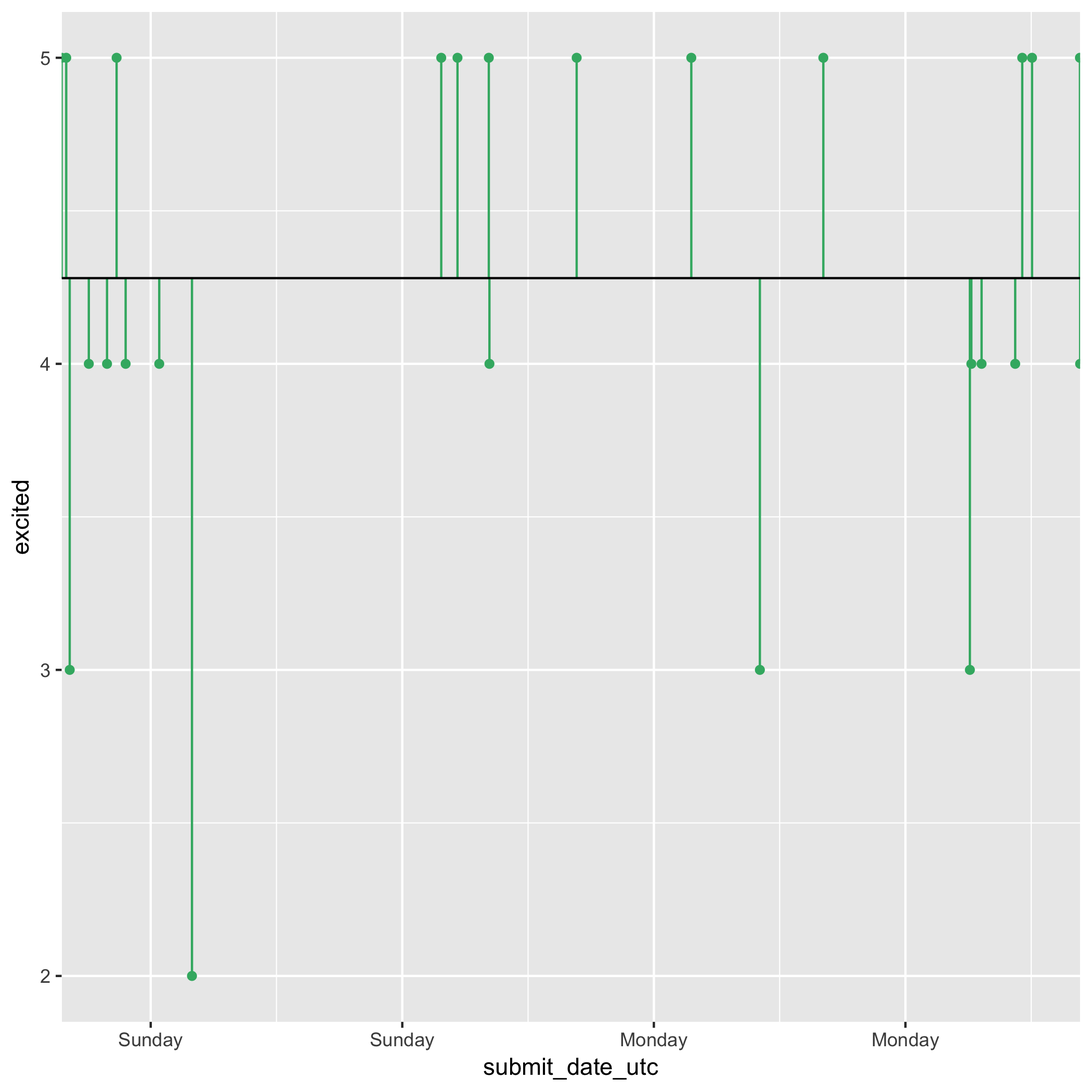
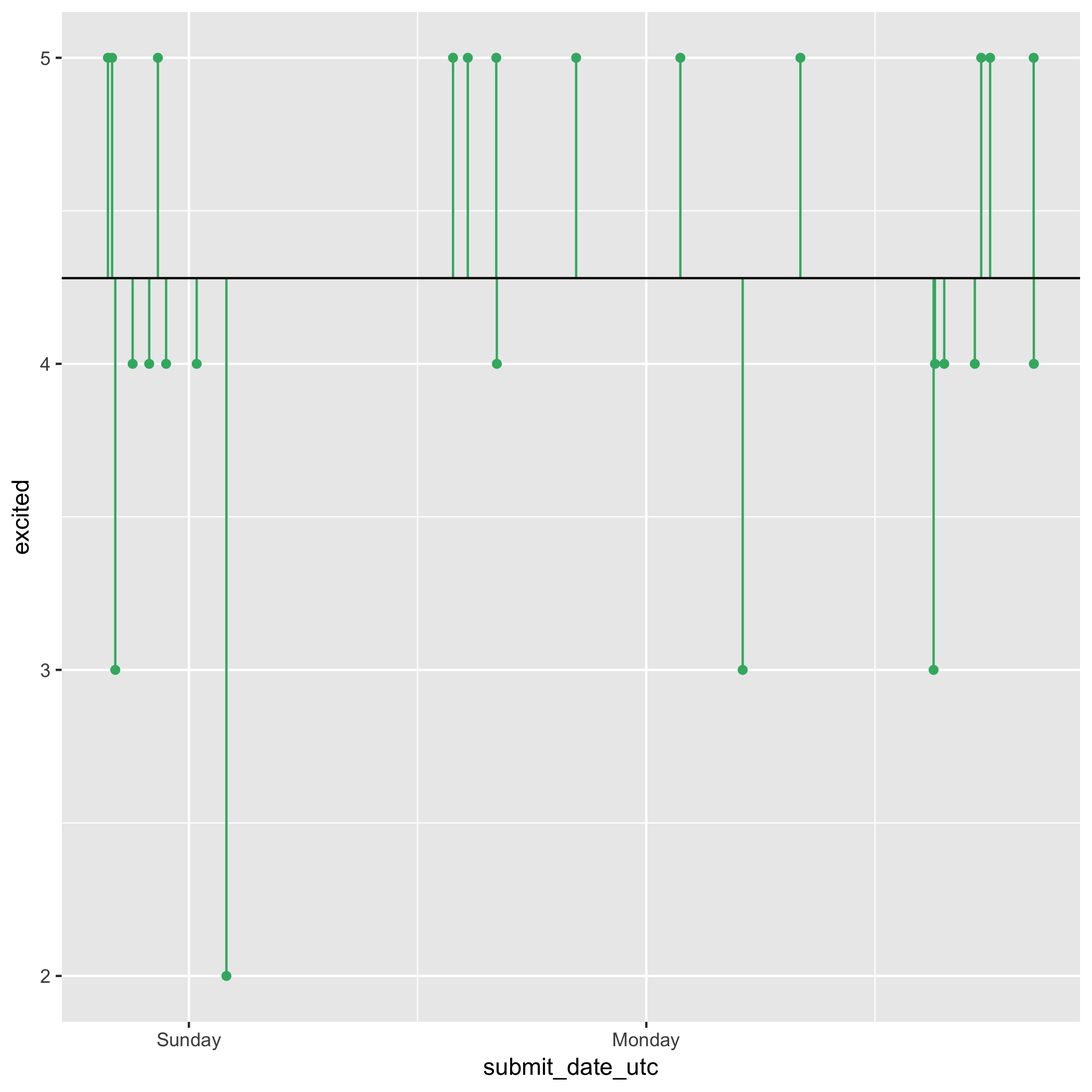
final final final cm011 slides

diff --git a/due.html b/due.html
@@ -263,8 +263,8 @@ $(document).ready(function () {
 <div id="datacamp" class="section level2">
 <h2>DataCamp</h2>
 <p>Be sure to check the <strong>DataCamp</strong> link above for more details on the DataCamp (DC) assignments. More details on the Problem Sets (PS) are available in the link above for Problem Sets.</p>
-<div id="htmlwidget-e3568b94a419a37038a0" style="width:100%;height:auto;" class="datatables html-widget"></div>
-<script type="application/json" data-for="htmlwidget-e3568b94a419a37038a0">{"x":{"filter":"top","filterHTML":"<tr>\n  <td data-type=\"character\" style=\"vertical-align: top;\">\n    <div class=\"form-group has-feedback\" style=\"margin-bottom: auto;\">\n      <input type=\"search\" placeholder=\"All\" class=\"form-control\" style=\"width: 100%;\"/>\n      <span class=\"glyphicon glyphicon-remove-circle form-control-feedback\"><\/span>\n    <\/div>\n  <\/td>\n  <td data-type=\"character\" style=\"vertical-align: top;\">\n    <div class=\"form-group has-feedback\" style=\"margin-bottom: auto;\">\n      <input type=\"search\" placeholder=\"All\" class=\"form-control\" style=\"width: 100%;\"/>\n      <span class=\"glyphicon glyphicon-remove-circle form-control-feedback\"><\/span>\n    <\/div>\n  <\/td>\n  <td data-type=\"character\" style=\"vertical-align: top;\">\n    <div class=\"form-group has-feedback\" style=\"margin-bottom: auto;\">\n      <input type=\"search\" placeholder=\"All\" class=\"form-control\" style=\"width: 100%;\"/>\n      <span class=\"glyphicon glyphicon-remove-circle form-control-feedback\"><\/span>\n    <\/div>\n  <\/td>\n  <td data-type=\"character\" style=\"vertical-align: top;\">\n    <div class=\"form-group has-feedback\" style=\"margin-bottom: auto;\">\n      <input type=\"search\" placeholder=\"All\" class=\"form-control\" style=\"width: 100%;\"/>\n      <span class=\"glyphicon glyphicon-remove-circle form-control-feedback\"><\/span>\n    <\/div>\n  <\/td>\n  <td data-type=\"character\" style=\"vertical-align: top;\">\n    <div class=\"form-group has-feedback\" style=\"margin-bottom: auto;\">\n      <input type=\"search\" placeholder=\"All\" class=\"form-control\" style=\"width: 100%;\"/>\n      <span class=\"glyphicon glyphicon-remove-circle form-control-feedback\"><\/span>\n    <\/div>\n  <\/td>\n  <td data-type=\"character\" style=\"vertical-align: top;\">\n    <div class=\"form-group has-feedback\" style=\"margin-bottom: auto;\">\n      <input type=\"search\" placeholder=\"All\" class=\"form-control\" style=\"width: 100%;\"/>\n      <span class=\"glyphicon glyphicon-remove-circle form-control-feedback\"><\/span>\n    <\/div>\n  <\/td>\n<\/tr>","data":[["Tues","Thurs","Tues","Thurs","Tues","Thurs","Tues","Thurs","Tues","Thurs","Tues","Thurs","Tues","Thurs","Tues","Thurs","Tues","Thurs","Tues","Thurs","Tues","Thurs","Tues","Thurs"],["June 26","June 28","July 3","July 5","July 10","July 12","July 17","July 19","July 24","July 26","July 31","August 2","August 7","August 9","August 14","August 16","August 21","August 23","August 28","August 30","September 4","September 6","September 11","September 13"],["1: Working with data in R","1.2","1.3","1.4","1.5","1.6","2: Linear models","2.2","2.3","2.4","2.5","2.6","3: Inference","3.2","3.3","3.4","3.5","3.6","4: Mixed models","4.2","4.3","5.1: Wrap-up","5.2: Final presentations","5.3: Final presentations"],[null,"<a href='http://moderndive.netlify.com/index.html#sec:intro-for-students'>- MD Ch 1.1: Introduction<\/a><br><a href='http://moderndive.netlify.com/2-getting-started.html'>- MD Ch 2: Getting Started<\/a>","<a href='http://moderndive.netlify.com/3-viz.html'>- MD Ch 3: Data Visualization<\/a><br><a href='http://r4ds.had.co.nz/workflow-basics.html'>- R4DS Ch 4: Workflow Basics<\/a><br><a href='http://journals.plos.org/plosbiology/article?id=10.1371/journal.pbio.1002128'>- Weissberger: Bar Plots<\/a>","<a href='http://moderndive.netlify.com/4-tidy.html'>- MD Ch 4: Tidy Data<\/a><br><a href='http://r4ds.had.co.nz/workflow-scripts.html'>- R4DS Ch 6: Workflow Scripts<\/a>","<a href='http://moderndive.netlify.com/5-wrangling.html'>- MD Ch 5: Data Wrangling<\/a><br><a href='http://r4ds.had.co.nz/exploratory-data-analysis.html'>- R4DS Ch 7: Exploratory Data Analysis<\/a><br><a href='http://r4ds.had.co.nz/workflow-projects.html'>- R4DS Ch 8: Workflow Projects<\/a>","<br><a href='http://r4ds.had.co.nz/data-import.html'>- R4DS Ch 11: Data Import<\/a><br><a href='http://r4ds.had.co.nz/relational-data.html'>- R4DS Ch 13: Relational Data<\/a><br><a href='https://peerj.com/preprints/3139/'>- PEERJ: Data for Collaboration<\/a><br><a href='https://peerj.com/preprints/3183/'>- PEERJ: Spreadsheets<\/a>","<a href='http://moderndive.netlify.com/6-regression.html'>- MD Ch 6: Basic Regression<\/a><br><a href = 'https://www.nature.com/articles/nmeth.3627'>- Nature POS: SLR<\/a>","<a href='http://moderndive.netlify.com/7-multiple-regression.html'>- MD Ch: Multiple Regression<\/a><br><a href = 'https://www.nature.com/articles/nmeth.3665'>- Nature POS: MLR<\/a>","<a href='https://www.nature.com/articles/nmeth.2613'>- Nature POS: Uncertainty<\/a><br><a href='https://www.nature.com/articles/nmeth.2659'>- Nature POS: Error bars<\/a><br><a href='https://statsbylopez.com/2015/08/31/regression-or-reversion/'>- Blog: Regression to the mean<\/a><br><a href='https://www.youtube.com/watch?time_continue=1&v=ebEkn-BiW5k'>- YouTube: Simpson's Paradox, Part 1<\/a><br><a href='https://www.youtube.com/watch?v=E_ME4P9fQbo'>- YouTube: Simpson's Paradox, Part 2<\/a>","<a href='https://www.markdowntutorial.com'>- Markdown Tutorial<\/a><br><a href='http://r4ds.had.co.nz/r-markdown.html'>- R4DS Ch 27: R Markdown<\/a><br><a href='http://r4ds.had.co.nz/factors.html'>- R4DS Ch 15: Factors<\/a>","<a href = 'https://www.nature.com/articles/nmeth.3812'>- Nature POS: Outliers<\/a><br><a href = 'https://www.nature.com/articles/nmeth.3854'>- Nature POS: Diagnostics<\/a>",null,"<a href='http://moderndive.netlify.com/8-sampling.html'>- MD Ch 8: Sampling<\/a>","<a href='http://moderndive.netlify.com/9-confidence-intervals'>- MD  Ch 9: Confidence Intervals<\/a><br><a href='https://www.nature.com/articles/nmeth.3414\">- Nature POS: Bootstrapping<\/a>","<a href='http://moderndive.netlify.com/10-hypothesis-testing.html'>- MD Ch 10: Hypothesis Testing <\/a><br><a href='http://moderndive.netlify.com/b-appendixb'>- MD Appendix B: Inference Examples<\/a>","<a href='https://www.nature.com/articles/nmeth.2698'>- Nature POS: t-tests<\/a><br><a href='https://www.nature.com/articles/nmeth.2858'>- Nature POS: comparing samples<\/a>","<a href='https://www.nature.com/news/scientific-method-statistical-errors-1.14700'>- Nature: p-values<\/a><br><a href = 'https://fivethirtyeight.com/features/science-isnt-broken/#part1'>- 538: Science Isn't Broken<\/a><br><a href='https://simplystatistics.org/2012/01/06/p-values-and-hypothesis-testing-get-a-bad-rap-but-we/'>- Simply Statistics blog<\/a><br><a href='http://daniellakens.blogspot.com/2017/12/understanding-common-misconceptions.html'>- Lakens blog<\/a>","<a href='https://www.nature.com/articles/nmeth.3005'>- Nature POS: ANOVA<\/a><br><a href='https://www.nature.com/articles/nmeth.2900'>- Nature POS: multiple comparisons<\/a><br><a href = 'https://arxiv.org/pdf/1412.3416.pdf'>- ANOVA<\/a>","<a href='http://thestudyofthehousehold.com/2018/02/28/2018-02-28-formulae-are-a-lot-like-french-slang/'>- Mixed Modeling as a Foreign Language<\/a>","<a href='https://peerj.com/articles/4794/'>- PEERJ article<\/a>","<a href='https://m-clark.github.io/mixed-models-with-R/'>- Mixed Models in R<\/a>","<a href='http://biostat.mc.vanderbilt.edu/wiki/Main/ManuscriptChecklist'>- Frank Harrell's Manuscript Checklist<\/a>",null,null],["<a href='http://bit.ly/conj620-hi'>Warm-up survey<\/a>","<a href='https://www.datacamp.com/courses/introduction-to-the-tidyverse'>DC1: Intro to the Tidyverse (Ch 1 + 2)<\/a>","<a href='https://www.datacamp.com/courses/introduction-to-the-tidyverse'>DC1: Intro to the Tidyverse (Ch 3 + 4)<\/a>","DC2: Working with Data in the Tidyverse (Ch 1 + 2)","DC2: Working with Data in the Tidyverse (Ch 3 + 4)","<a href='https://www.datacamp.com/courses/introduction-to-data'>DC3: Introduction to Data (Ch 1-3)<\/a>","<a href='https://www.datacamp.com/courses/exploratory-data-analysis-in-r-case-study'>DC4: Exploratory Data Analysis Case Study (Ch 1 + 2)<\/a>","<a href='https://www.datacamp.com/courses/exploratory-data-analysis-in-r-case-study'>DC4: Exploratory Data Analysis Case Study (Ch 3 + 4)<\/a>","DC5: Intro to Modeling in the Tidyverse (Ch 1 + 2)","DC5: Intro to Modeling in the Tidyverse (Ch 3 + 4)",null,null,"<a href='https://www.datacamp.com/courses/inference-for-numerical-data'>DC6: Inference for Numerical Data (Ch 1 + 2)<\/a>","<a href='https://www.datacamp.com/courses/inference-for-numerical-data'>DC6: Inference for Numerical Data (Ch 3 + 4)<\/a>","DC7: Inference for Categorical Data (Ch 1 + 2)","DC7: Inference for Categorical Data (Ch 3 + 4)","<a href='https://www.datacamp.com/courses/inference-for-linear-regression'>DC8: Inference for Linear Regression (Ch 1 + 2)<\/a>","<a href='https://www.datacamp.com/courses/inference-for-linear-regression'>DC8: Inference for Linear Regression (Ch 3 - 5)<\/a>","<a href='https://www.datacamp.com/courses/hierarchical-and-mixed-effects-models'>DC9: Hierarchical & Mixed Effects Models (Ch 1 + 2)<\/a>","<a href='https://www.datacamp.com/courses/hierarchical-and-mixed-effects-models'>DC9: Hierarchical & Mixed Effects Models (Ch 3 + 4)<\/a>","<a href='https://www.datacamp.com/courses/communicating-with-data-in-the-tidyverse'>DC10: Communicating with Data in the Tidyverse<\/a>","<a href='https://www.datacamp.com/courses/communicating-with-data-in-the-tidyverse'>DC10: Communicating with Data in the Tidyverse<\/a>",null,null],["-","-","-","-","-","-","-","-","-","-","-","-","-","-","-","-","-","-","-","-","-","-","-","<a href='http://ismayc.github.io/soc301_s2017/problem-sets/index.html#ps11'>#VALUE!<\/a>"]],"container":"<table class=\"cell-border stripe\">\n  <thead>\n    <tr>\n      <th>Weekday<\/th>\n      <th>Date<\/th>\n      <th>CM / Block<\/th>\n      <th>Readings Due<\/th>\n      <th>DataCamp Due<\/th>\n      <th>Problem Set Due<\/th>\n    <\/tr>\n  <\/thead>\n<\/table>","options":{"pageLength":24,"autoWidth":true,"bInfo":false,"paging":false,"order":[],"orderClasses":false,"orderCellsTop":true,"lengthMenu":[10,24,25,50,100]}},"evals":[],"jsHooks":[]}</script>
+<div id="htmlwidget-7463f2153dd5ce19f8c6" style="width:100%;height:auto;" class="datatables html-widget"></div>
+<script type="application/json" data-for="htmlwidget-7463f2153dd5ce19f8c6">{"x":{"filter":"top","filterHTML":"<tr>\n  <td data-type=\"character\" style=\"vertical-align: top;\">\n    <div class=\"form-group has-feedback\" style=\"margin-bottom: auto;\">\n      <input type=\"search\" placeholder=\"All\" class=\"form-control\" style=\"width: 100%;\"/>\n      <span class=\"glyphicon glyphicon-remove-circle form-control-feedback\"><\/span>\n    <\/div>\n  <\/td>\n  <td data-type=\"character\" style=\"vertical-align: top;\">\n    <div class=\"form-group has-feedback\" style=\"margin-bottom: auto;\">\n      <input type=\"search\" placeholder=\"All\" class=\"form-control\" style=\"width: 100%;\"/>\n      <span class=\"glyphicon glyphicon-remove-circle form-control-feedback\"><\/span>\n    <\/div>\n  <\/td>\n  <td data-type=\"character\" style=\"vertical-align: top;\">\n    <div class=\"form-group has-feedback\" style=\"margin-bottom: auto;\">\n      <input type=\"search\" placeholder=\"All\" class=\"form-control\" style=\"width: 100%;\"/>\n      <span class=\"glyphicon glyphicon-remove-circle form-control-feedback\"><\/span>\n    <\/div>\n  <\/td>\n  <td data-type=\"character\" style=\"vertical-align: top;\">\n    <div class=\"form-group has-feedback\" style=\"margin-bottom: auto;\">\n      <input type=\"search\" placeholder=\"All\" class=\"form-control\" style=\"width: 100%;\"/>\n      <span class=\"glyphicon glyphicon-remove-circle form-control-feedback\"><\/span>\n    <\/div>\n  <\/td>\n  <td data-type=\"character\" style=\"vertical-align: top;\">\n    <div class=\"form-group has-feedback\" style=\"margin-bottom: auto;\">\n      <input type=\"search\" placeholder=\"All\" class=\"form-control\" style=\"width: 100%;\"/>\n      <span class=\"glyphicon glyphicon-remove-circle form-control-feedback\"><\/span>\n    <\/div>\n  <\/td>\n  <td data-type=\"character\" style=\"vertical-align: top;\">\n    <div class=\"form-group has-feedback\" style=\"margin-bottom: auto;\">\n      <input type=\"search\" placeholder=\"All\" class=\"form-control\" style=\"width: 100%;\"/>\n      <span class=\"glyphicon glyphicon-remove-circle form-control-feedback\"><\/span>\n    <\/div>\n  <\/td>\n<\/tr>","data":[["Tues","Thurs","Tues","Thurs","Tues","Thurs","Tues","Thurs","Tues","Thurs","Tues","Thurs","Tues","Thurs","Tues","Thurs","Tues","Thurs","Tues","Thurs","Tues","Thurs","Tues","Thurs"],["June 26","June 28","July 3","July 5","July 10","July 12","July 17","July 19","July 24","July 26","July 31","August 2","August 7","August 9","August 14","August 16","August 21","August 23","August 28","August 30","September 4","September 6","September 11","September 13"],["1: Working with data in R","1.2","1.3","1.4","1.5","1.6","2: Linear models","2.2","2.3","2.4","2.5","2.6","3: Inference","3.2","3.3","3.4","3.5","3.6","4: Mixed models","4.2","4.3","5.1: Wrap-up","5.2: Final presentations","5.3: Final presentations"],[null,"<a href='http://moderndive.netlify.com/index.html#sec:intro-for-students'>- MD Ch 1.1: Introduction<\/a><br><a href='http://moderndive.netlify.com/2-getting-started.html'>- MD Ch 2: Getting Started<\/a>","<a href='http://moderndive.netlify.com/3-viz.html'>- MD Ch 3: Data Visualization<\/a><br><a href='http://r4ds.had.co.nz/workflow-basics.html'>- R4DS Ch 4: Workflow Basics<\/a><br><a href='http://journals.plos.org/plosbiology/article?id=10.1371/journal.pbio.1002128'>- Weissberger: Bar Plots<\/a>","<a href='http://moderndive.netlify.com/4-tidy.html'>- MD Ch 4: Tidy Data<\/a><br><a href='http://r4ds.had.co.nz/workflow-scripts.html'>- R4DS Ch 6: Workflow Scripts<\/a>","<a href='http://moderndive.netlify.com/5-wrangling.html'>- MD Ch 5: Data Wrangling<\/a><br><a href='http://r4ds.had.co.nz/exploratory-data-analysis.html'>- R4DS Ch 7: Exploratory Data Analysis<\/a><br><a href='http://r4ds.had.co.nz/workflow-projects.html'>- R4DS Ch 8: Workflow Projects<\/a>","<br><a href='http://r4ds.had.co.nz/data-import.html'>- R4DS Ch 11: Data Import<\/a><br><a href='http://r4ds.had.co.nz/relational-data.html'>- R4DS Ch 13: Relational Data<\/a><br><a href='https://peerj.com/preprints/3139/'>- PEERJ: Data for Collaboration<\/a><br><a href='https://peerj.com/preprints/3183/'>- PEERJ: Spreadsheets<\/a>","<a href='http://moderndive.netlify.com/6-regression.html'>- MD Ch 6: Basic Regression<\/a><br><a href = 'https://www.nature.com/articles/nmeth.3627'>- Nature POS: SLR<\/a>","<a href='http://moderndive.netlify.com/7-multiple-regression.html'>- MD Ch: Multiple Regression<\/a><br><a href = 'https://www.nature.com/articles/nmeth.3665'>- Nature POS: MLR<\/a>","<a href='https://www.nature.com/articles/nmeth.2613'>- Nature POS: Uncertainty<\/a><br><a href='https://www.nature.com/articles/nmeth.2659'>- Nature POS: Error bars<\/a><br><a href='https://statsbylopez.com/2015/08/31/regression-or-reversion/'>- Blog: Regression to the mean<\/a><br><a href='https://www.youtube.com/watch?time_continue=1&v=ebEkn-BiW5k'>- YouTube: Simpson's Paradox, Part 1<\/a><br><a href='https://www.youtube.com/watch?v=E_ME4P9fQbo'>- YouTube: Simpson's Paradox, Part 2<\/a>","<a href='https://www.markdowntutorial.com'>- Markdown Tutorial<\/a><br><a href='http://r4ds.had.co.nz/r-markdown.html'>- R4DS Ch 27: R Markdown<\/a><br><a href='http://r4ds.had.co.nz/factors.html'>- R4DS Ch 15: Factors<\/a>","<a href = 'https://www.nature.com/articles/nmeth.3812'>- Nature POS: Outliers<\/a><br><a href = 'https://www.nature.com/articles/nmeth.3854'>- Nature POS: Diagnostics<\/a>",null,"<a href='http://moderndive.netlify.com/8-sampling.html'>- MD Ch 8: Sampling<\/a>","<a href='http://moderndive.netlify.com/9-confidence-intervals'>- MD  Ch 9: Confidence Intervals<\/a><br><a href='https://www.nature.com/articles/nmeth.3414\">- Nature POS: Bootstrapping<\/a>","<a href='http://moderndive.netlify.com/10-hypothesis-testing.html'>- MD Ch 10: Hypothesis Testing <\/a><br><a href='http://moderndive.netlify.com/b-appendixb'>- MD Appendix B: Inference Examples<\/a>","<a href='https://www.nature.com/articles/nmeth.2698'>- Nature POS: t-tests<\/a><br><a href='https://www.nature.com/articles/nmeth.2858'>- Nature POS: comparing samples<\/a>","<a href='https://www.nature.com/news/scientific-method-statistical-errors-1.14700'>- Nature: p-values<\/a><br><a href = 'https://fivethirtyeight.com/features/science-isnt-broken/#part1'>- 538: Science Isn't Broken<\/a><br><a href='https://simplystatistics.org/2012/01/06/p-values-and-hypothesis-testing-get-a-bad-rap-but-we/'>- Simply Statistics blog<\/a><br><a href='http://daniellakens.blogspot.com/2017/12/understanding-common-misconceptions.html'>- Lakens blog<\/a>","<a href='https://www.nature.com/articles/nmeth.3005'>- Nature POS: ANOVA<\/a><br><a href='https://www.nature.com/articles/nmeth.2900'>- Nature POS: multiple comparisons<\/a><br><a href = 'https://arxiv.org/pdf/1412.3416.pdf'>- ANOVA<\/a>","<a href='http://thestudyofthehousehold.com/2018/02/28/2018-02-28-formulae-are-a-lot-like-french-slang/'>- Mixed Modeling as a Foreign Language<\/a>","<a href='https://peerj.com/articles/4794/'>- PEERJ article<\/a>","<a href='https://m-clark.github.io/mixed-models-with-R/'>- Mixed Models in R<\/a>","<a href='http://biostat.mc.vanderbilt.edu/wiki/Main/ManuscriptChecklist'>- Frank Harrell's Manuscript Checklist<\/a>",null,null],["<a href='http://bit.ly/conj620-hi'>Warm-up survey<\/a>","<a href='https://www.datacamp.com/courses/introduction-to-the-tidyverse'>DC1: Intro to the Tidyverse (Ch 1 + 2)<\/a>","<a href='https://www.datacamp.com/courses/introduction-to-the-tidyverse'>DC1: Intro to the Tidyverse (Ch 3 + 4)<\/a>","DC2: Working with Data in the Tidyverse (Ch 1 + 2)","DC2: Working with Data in the Tidyverse (Ch 3 + 4)","<a href='https://www.datacamp.com/courses/introduction-to-data'>DC3: Introduction to Data (Ch 1-3)<\/a>","<a href='https://www.datacamp.com/courses/exploratory-data-analysis-in-r-case-study'>DC4: Exploratory Data Analysis Case Study (Ch 1 + 2)<\/a>","<a href='https://www.datacamp.com/courses/exploratory-data-analysis-in-r-case-study'>DC4: Exploratory Data Analysis Case Study (Ch 3 + 4)<\/a>","DC5: Intro to Modeling in the Tidyverse (Ch 1 + 2)","DC5: Intro to Modeling in the Tidyverse (Ch 3 + 4)",null,null,"<a href='https://www.datacamp.com/courses/inference-for-numerical-data'>DC6: Inference for Numerical Data (Ch 1 + 2)<\/a>","<a href='https://www.datacamp.com/courses/inference-for-numerical-data'>DC6: Inference for Numerical Data (Ch 3 + 4)<\/a>","DC7: Inference for Categorical Data (Ch 1 + 2)","DC7: Inference for Categorical Data (Ch 3 + 4)","<a href='https://www.datacamp.com/courses/inference-for-linear-regression'>DC8: Inference for Linear Regression (Ch 1 + 2)<\/a>","<a href='https://www.datacamp.com/courses/inference-for-linear-regression'>DC8: Inference for Linear Regression (Ch 3 - 5)<\/a>","<a href='https://www.datacamp.com/courses/hierarchical-and-mixed-effects-models'>DC9: Hierarchical & Mixed Effects Models (Ch 1 + 2)<\/a>","<a href='https://www.datacamp.com/courses/hierarchical-and-mixed-effects-models'>DC9: Hierarchical & Mixed Effects Models (Ch 3 + 4)<\/a>","<a href='https://www.datacamp.com/courses/communicating-with-data-in-the-tidyverse'>DC10: Communicating with Data in the Tidyverse<\/a>","<a href='https://www.datacamp.com/courses/communicating-with-data-in-the-tidyverse'>DC10: Communicating with Data in the Tidyverse<\/a>",null,null],["-","-","-","-","-","-","-","-","-","-","-","-","-","-","-","-","-","-","-","-","-","-","-","<a href='http://ismayc.github.io/soc301_s2017/problem-sets/index.html#ps11'>#VALUE!<\/a>"]],"container":"<table class=\"cell-border stripe\">\n  <thead>\n    <tr>\n      <th>Weekday<\/th>\n      <th>Date<\/th>\n      <th>CM / Block<\/th>\n      <th>Readings Due<\/th>\n      <th>DataCamp Due<\/th>\n      <th>Problem Set Due<\/th>\n    <\/tr>\n  <\/thead>\n<\/table>","options":{"pageLength":24,"autoWidth":true,"bInfo":false,"paging":false,"order":[],"orderClasses":false,"orderCellsTop":true,"lengthMenu":[10,24,25,50,100]}},"evals":[],"jsHooks":[]}</script>
 </div>
 
 <p>

diff --git a/cm.html b/cm.html
@@ -247,8 +247,8 @@ $(document).ready(function () {
 
 
 <p>Links to all slide decks and in-class lab materials will be posted here.</p>
-<div id="htmlwidget-3cee27060059fac72d11" style="width:100%;height:auto;" class="datatables html-widget"></div>
-<script type="application/json" data-for="htmlwidget-3cee27060059fac72d11">{"x":{"filter":"top","filterHTML":"<tr>\n  <td data-type=\"character\" style=\"vertical-align: top;\">\n    <div class=\"form-group has-feedback\" style=\"margin-bottom: auto;\">\n      <input type=\"search\" placeholder=\"All\" class=\"form-control\" style=\"width: 100%;\"/>\n      <span class=\"glyphicon glyphicon-remove-circle form-control-feedback\"><\/span>\n    <\/div>\n  <\/td>\n  <td data-type=\"character\" style=\"vertical-align: top;\">\n    <div class=\"form-group has-feedback\" style=\"margin-bottom: auto;\">\n      <input type=\"search\" placeholder=\"All\" class=\"form-control\" style=\"width: 100%;\"/>\n      <span class=\"glyphicon glyphicon-remove-circle form-control-feedback\"><\/span>\n    <\/div>\n  <\/td>\n  <td data-type=\"character\" style=\"vertical-align: top;\">\n    <div class=\"form-group has-feedback\" style=\"margin-bottom: auto;\">\n      <input type=\"search\" placeholder=\"All\" class=\"form-control\" style=\"width: 100%;\"/>\n      <span class=\"glyphicon glyphicon-remove-circle form-control-feedback\"><\/span>\n    <\/div>\n  <\/td>\n  <td data-type=\"character\" style=\"vertical-align: top;\">\n    <div class=\"form-group has-feedback\" style=\"margin-bottom: auto;\">\n      <input type=\"search\" placeholder=\"All\" class=\"form-control\" style=\"width: 100%;\"/>\n      <span class=\"glyphicon glyphicon-remove-circle form-control-feedback\"><\/span>\n    <\/div>\n  <\/td>\n  <td data-type=\"character\" style=\"vertical-align: top;\">\n    <div class=\"form-group has-feedback\" style=\"margin-bottom: auto;\">\n      <input type=\"search\" placeholder=\"All\" class=\"form-control\" style=\"width: 100%;\"/>\n      <span class=\"glyphicon glyphicon-remove-circle form-control-feedback\"><\/span>\n    <\/div>\n  <\/td>\n<\/tr>","data":[["Tues","Thurs","Tues","Thurs","Tues","Thurs","Tues","Thurs","Tues","Thurs","Tues","Thurs","Tues","Thurs","Tues","Thurs","Tues","Thurs","Tues","Thurs","Tues","Thurs","Tues","Thurs"],["June 26","June 28","July 3","July 5","July 10","July 12","July 17","July 19","July 24","July 26","July 31","August 2","August 7","August 9","August 14","August 16","August 21","August 23","August 28","August 30","September 4","September 6","September 11","September 13"],["1.1: Working with data in R","1.2","1.3","1.4","1.5","1.6","2.1: Linear models","2.2","2.3","2.4","2.5","2.6","3.1: Inference","3.2","3.3","3.4","3.5","3.6","4.1: Mixed models","4.2","4.3","5.1: Wrap-up","5.2: Final presentations","5.3: Final presentations"],["Welcome & Syllabus (<a href='http://bit.ly/conj620-cm011'>notepad<\/a>)","Intro to R & tidyverse (<a href='http://bit.ly/conj620-cm012'>notepad<\/a>)","Data viz / Exploratory Data Analysis","Data wrangling / more EDA","Data tables / Tidy data","Concept integration<br><a href='https://andrewbtran.github.io/NICAR/2018/workflow/docs/01-workflow_intro.html'>- File organization best practices<\/a><br><a href='https://www.tidyverse.org/articles/2017/12/workflow-vs-script/'>- Project-oriented workflow<\/a>","Simple Regression (one continuous predictor)","Simple Regression (one categorical predictor)","Multiple Regression (2 continuous predictors)","Multiple Regression (continuous + categorical)","Residuals / Diagnostics / Outliers","Concept integration","Sampling","Confidence Intervals","Hypothesis Testing<br><a href='https://github.com/Lakens/perfect-t-test/blob/master/perfect_independent_t-test.Rmd'>- Perfect 2-sample t-test<\/a>","Hypothesis Testing<br><a href='https://github.com/Lakens/perfect-t-test/blob/master/Perfect_dependent_t-test.Rmd'>- Perfect paired t-test<\/a>","Hypothesis Testing","Concept integration",null,null,null,"Concept integration",null,null],["<a href='https://www.youtube.com/watch?v=Zwwanld4T1w'>Lab 1: Mona Chalabi video<\/a>","Introduce yourself","Data viz","Data taming & wrangling","Data tidying","EDA: integrate + iterate",null,null,null,null,null,"Regression: integrate + iterate",null,null,null,null,null,"Inference: integrate + iterate",null,null,null,"Integrate + iterate",null,null]],"container":"<table class=\"cell-border stripe\">\n  <thead>\n    <tr>\n      <th>Weekday<\/th>\n      <th>Date<\/th>\n      <th>CM / Block<\/th>\n      <th>Topics<\/th>\n      <th>In-class Lab<\/th>\n    <\/tr>\n  <\/thead>\n<\/table>","options":{"pageLength":24,"autoWidth":true,"bInfo":false,"paging":false,"order":[],"orderClasses":false,"orderCellsTop":true,"lengthMenu":[10,24,25,50,100]}},"evals":[],"jsHooks":[]}</script>
+<div id="htmlwidget-08f81e76b23be2788df1" style="width:100%;height:auto;" class="datatables html-widget"></div>
+<script type="application/json" data-for="htmlwidget-08f81e76b23be2788df1">{"x":{"filter":"top","filterHTML":"<tr>\n  <td data-type=\"character\" style=\"vertical-align: top;\">\n    <div class=\"form-group has-feedback\" style=\"margin-bottom: auto;\">\n      <input type=\"search\" placeholder=\"All\" class=\"form-control\" style=\"width: 100%;\"/>\n      <span class=\"glyphicon glyphicon-remove-circle form-control-feedback\"><\/span>\n    <\/div>\n  <\/td>\n  <td data-type=\"character\" style=\"vertical-align: top;\">\n    <div class=\"form-group has-feedback\" style=\"margin-bottom: auto;\">\n      <input type=\"search\" placeholder=\"All\" class=\"form-control\" style=\"width: 100%;\"/>\n      <span class=\"glyphicon glyphicon-remove-circle form-control-feedback\"><\/span>\n    <\/div>\n  <\/td>\n  <td data-type=\"character\" style=\"vertical-align: top;\">\n    <div class=\"form-group has-feedback\" style=\"margin-bottom: auto;\">\n      <input type=\"search\" placeholder=\"All\" class=\"form-control\" style=\"width: 100%;\"/>\n      <span class=\"glyphicon glyphicon-remove-circle form-control-feedback\"><\/span>\n    <\/div>\n  <\/td>\n  <td data-type=\"character\" style=\"vertical-align: top;\">\n    <div class=\"form-group has-feedback\" style=\"margin-bottom: auto;\">\n      <input type=\"search\" placeholder=\"All\" class=\"form-control\" style=\"width: 100%;\"/>\n      <span class=\"glyphicon glyphicon-remove-circle form-control-feedback\"><\/span>\n    <\/div>\n  <\/td>\n  <td data-type=\"character\" style=\"vertical-align: top;\">\n    <div class=\"form-group has-feedback\" style=\"margin-bottom: auto;\">\n      <input type=\"search\" placeholder=\"All\" class=\"form-control\" style=\"width: 100%;\"/>\n      <span class=\"glyphicon glyphicon-remove-circle form-control-feedback\"><\/span>\n    <\/div>\n  <\/td>\n<\/tr>","data":[["Tues","Thurs","Tues","Thurs","Tues","Thurs","Tues","Thurs","Tues","Thurs","Tues","Thurs","Tues","Thurs","Tues","Thurs","Tues","Thurs","Tues","Thurs","Tues","Thurs","Tues","Thurs"],["June 26","June 28","July 3","July 5","July 10","July 12","July 17","July 19","July 24","July 26","July 31","August 2","August 7","August 9","August 14","August 16","August 21","August 23","August 28","August 30","September 4","September 6","September 11","September 13"],["1.1: Working with data in R","1.2","1.3","1.4","1.5","1.6","2.1: Linear models","2.2","2.3","2.4","2.5","2.6","3.1: Inference","3.2","3.3","3.4","3.5","3.6","4.1: Mixed models","4.2","4.3","5.1: Wrap-up","5.2: Final presentations","5.3: Final presentations"],["<a href='slides/cm011.html'>Welcome & Introductions<\/a><br>(<a href='syllabus.html'>syllabus<\/a>)","Intro to R & tidyverse (<a href='http://bit.ly/conj620-cm012'>notepad<\/a>)","Data viz / Exploratory Data Analysis","Data wrangling / more EDA","Data tables / Tidy data","Concept integration<br><a href='https://andrewbtran.github.io/NICAR/2018/workflow/docs/01-workflow_intro.html'>- File organization best practices<\/a><br><a href='https://www.tidyverse.org/articles/2017/12/workflow-vs-script/'>- Project-oriented workflow<\/a>","Simple Regression (one continuous predictor)","Simple Regression (one categorical predictor)","Multiple Regression (2 continuous predictors)","Multiple Regression (continuous + categorical)","Residuals / Diagnostics / Outliers","Concept integration","Sampling","Confidence Intervals","Hypothesis Testing<br><a href='https://github.com/Lakens/perfect-t-test/blob/master/perfect_independent_t-test.Rmd'>- Perfect 2-sample t-test<\/a>","Hypothesis Testing<br><a href='https://github.com/Lakens/perfect-t-test/blob/master/Perfect_dependent_t-test.Rmd'>- Perfect paired t-test<\/a>","Hypothesis Testing","Concept integration",null,null,null,"Concept integration",null,null],["<a href='http://bit.ly/conj620-cm011'>Lab 1: Paper Discussion<\/a>","Introduce yourself","Data viz","Data taming & wrangling","Data tidying","EDA: integrate + iterate",null,null,null,null,null,"Regression: integrate + iterate",null,null,null,null,null,"Inference: integrate + iterate",null,null,null,"Integrate + iterate",null,null]],"container":"<table class=\"cell-border stripe\">\n  <thead>\n    <tr>\n      <th>Weekday<\/th>\n      <th>Date<\/th>\n      <th>CM / Block<\/th>\n      <th>Topics<\/th>\n      <th>In-class Lab<\/th>\n    <\/tr>\n  <\/thead>\n<\/table>","options":{"pageLength":24,"autoWidth":true,"bInfo":false,"paging":false,"order":[],"orderClasses":false,"orderCellsTop":true,"lengthMenu":[10,24,25,50,100]}},"evals":[],"jsHooks":[]}</script>
 
 <p>
 <a rel="license" href="http://creativecommons.org/licenses/by-nc/4.0/">

diff --git a/slides/cm011.html b/slides/cm011.html
@@ -23,18 +23,49 @@ class: center, middle, inverse, title-slide
 
 ## Hi &amp; welcome!
 
+
 ---
 ## Where are we going?
 
 ![](http://moderndive.netlify.com/images/flowcharts/flowchart/flowchart.002.png)
 
 ---
+## Learning outcomes
+
+-	Develop and clearly describe a statistical analysis plan, from start to finish.
+
+--
+
+-	Work independently with data, including wrangling, tidying, visualizing, and basic analyses.
+
+--
+
+-	Accurately interpret results from basic inferential statistical analyses.
+
+--
+
+-	Understand assumptions and limitations to statistical procedures.
+
+--
+
+-	Know about the types/scope of questions one can ask about data.
+
+--
+
+-	Identify statistical questions/problems that require advanced methods out of skill set.
+
+--
+
+-	Proficient use of tools and vocabulary to facilitate effective collaboration with advisors, biostatisticians, and other team members.
+
+---
 ## How will we get there?
 
 - ModernDive
 - R4DS
-- Blogs, YouTube, etc.
 - DataCamp.com
+- Blogs, YouTube, PEERJ, Nature, etc.
+
 
 
 ---
@@ -53,6 +84,12 @@ https://arxiv.org/pdf/1712.07349.pdf
 https://nhorton.people.amherst.edu/mererenovation/17_Wickham.PDF
 
 ---
+class:inverse, middle, center
+## My 30-minute rule
+
+![](https://media.giphy.com/media/GiabMxIHNpZf2/giphy.gif)
+
+---
 ## Your articles
 
 - Find a partner
@@ -64,13 +101,24 @@ https://nhorton.people.amherst.edu/mererenovation/17_Wickham.PDF
     - http://bit.ly/conj620-cm011
 
 ---
+class:inverse, middle, center
+## On seriousness
+
+![](https://media.giphy.com/media/67UaEFCYRKOMU/giphy.gif)
+
+---
+class:inverse, middle, center
+
+## Our get-to-know-you survey results are in...
+
+---
 
 ```r
 library(tidyverse)
 library(janitor)
 library(here)
 
-hi &lt;- read_csv(here("data", "conj620-hi-20180623.csv")) %&gt;%
+hi &lt;- read_csv(here::here("data", "conj620-hi-20180623.csv")) %&gt;%
   clean_names() %&gt;% 
   rename("id" = 1, "name" = 2, "email" = 3, "year" = 4, 
          "age_guess" = 5, "program" = 6, "link" = 22, 
@@ -166,6 +214,10 @@ $ early           &lt;chr&gt; "early", "early", "early", "early", "early", "...
 ---
 ## Now...
 
+--
+
+![](images/conj620-hi-tuesday.png)
+
 
 ---
 
@@ -175,7 +227,7 @@ library(tidyverse)
 library(janitor)
 library(here)
 
-*hi &lt;- read_csv(here("data", "conj620-hi-20180626.csv")) %&gt;%
+*hi &lt;- read_csv(here::here("data", "conj620-hi-20180626.csv")) %&gt;%
   clean_names() %&gt;% 
   rename("id" = 1, "name" = 2, "email" = 3, "year" = 4, 
          "age_guess" = 5, "program" = 6, "link" = 22, 
@@ -183,15 +235,14 @@ library(here)
   filter(!name == "Jackie") %&gt;% 
   select(year:program, 
          heard_of_ = other:none_of_these, 
-         used_for_stats_for_stats = excel:other_1, 
+         used_for_stats = excel:other_1, 
          goals:stats, submit_date_utc) %&gt;% 
   mutate(program = word(program, start = -1),
          program = str_remove(program, "\\("),
          program = str_remove(program, "\\)"),
          id = row_number(),
          age_guess = parse_number(age_guess),
-         heard_of_5 = if_else(!is.na(heard_of_5), 
-                              "Git", 
+         heard_of_5 = if_else(!is.na(heard_of_5), "Git", 
                               heard_of_5)) %&gt;% 
   mutate(early = case_when(
     submit_date_utc &lt; "2018-06-24" ~ "early",
@@ -482,18 +533,18 @@ used
 
 ```
 # A tibble: 62 x 3
-      id option                    used_for_stats
- * &lt;int&gt; &lt;chr&gt;                     &lt;chr&gt;         
- 1     1 used_for_stats_for_stats1 Excel         
- 2     2 used_for_stats_for_stats1 Excel         
- 3     3 used_for_stats_for_stats1 Excel         
- 4     4 used_for_stats_for_stats1 Excel         
- 5     5 used_for_stats_for_stats1 Excel         
- 6     6 used_for_stats_for_stats1 Excel         
- 7     7 used_for_stats_for_stats1 Excel         
- 8     8 used_for_stats_for_stats1 Excel         
- 9     9 used_for_stats_for_stats1 Excel         
-10    10 used_for_stats_for_stats1 Excel         
+      id option          used_for_stats
+ * &lt;int&gt; &lt;chr&gt;           &lt;chr&gt;         
+ 1     1 used_for_stats1 Excel         
+ 2     2 used_for_stats1 Excel         
+ 3     3 used_for_stats1 Excel         
+ 4     4 used_for_stats1 Excel         
+ 5     5 used_for_stats1 Excel         
+ 6     6 used_for_stats1 Excel         
+ 7     7 used_for_stats1 Excel         
+ 8     8 used_for_stats1 Excel         
+ 9     9 used_for_stats1 Excel         
+10    10 used_for_stats1 Excel         
 # ... with 52 more rows
 ```
 
@@ -597,7 +648,7 @@ class:middle, inverse, center
 
 ## How excited are you??
 
-![](https://media.giphy.com/media/FwpecpDvcu7vO/giphy.gif)
+![](https://media.giphy.com/media/bTUfYM93qHT44/giphy.gif)
 
 ---
 
@@ -616,7 +667,7 @@ ggplot(hi, aes(x = excited)) +
 ggplot(hi, aes(x = submit_date_utc, y = excited)) + 
   geom_point(color = "mediumseagreen") + 
   geom_hline(aes(yintercept = mean(excited))) + 
-  scale_x_datetime(date_labels = "%A", expand=c(0,0))
+  scale_x_datetime(date_labels = "%A", date_breaks = "1 day")
 ```
 
 &lt;img src="cm011_files/figure-html/unnamed-chunk-22-1.png" width="65%" style="display: block; margin: auto;" /&gt;
@@ -630,7 +681,7 @@ ggplot(hi, aes(x = submit_date_utc, y = excited)) +
                color = "mediumseagreen") +
   geom_point(color = "mediumseagreen") + 
   geom_hline(aes(yintercept = mean(excited))) + 
-  scale_x_datetime(date_labels = "%A", expand=c(0,0))
+  scale_x_datetime(date_labels = "%A", date_breaks = "1 day")
 ```
 
 &lt;img src="cm011_files/figure-html/unnamed-chunk-23-1.png" width="60%" style="display: block; margin: auto;" /&gt;
@@ -647,7 +698,7 @@ class:middle, inverse, center
 ---
 
 ```r
-ggplot(hi, aes(x = early, y = age_guess, fill = early)) +
+ggplot(hi, aes(x = early, y = excited, fill = early)) +
   geom_boxplot(alpha = .6) +
   scale_fill_manual(values = c("mediumseagreen", "dodgerblue"), 
                     guide = FALSE) +
@@ -655,7 +706,35 @@ ggplot(hi, aes(x = early, y = age_guess, fill = early)) +
   labs(x = "")
 ```
 
-&lt;img src="cm011_files/figure-html/unnamed-chunk-24-1.png" width="65%" style="display: block; margin: auto;" /&gt;
+&lt;img src="cm011_files/figure-html/unnamed-chunk-24-1.png" width="50%" style="display: block; margin: auto;" /&gt;
+
+---
+
+```r
+ggplot(hi, aes(x = early, y = excited, fill = early)) +
+  geom_boxplot(alpha = .6, outlier.color = NA, colour = "gray50") +
+  geom_jitter(width = .2, alpha = .5, height = .05) +
+  scale_fill_manual(values = c("mediumseagreen", "dodgerblue"), 
+                    guide = FALSE) +
+  theme_minimal() +
+  labs(x = "")
+```
+
+&lt;img src="cm011_files/figure-html/unnamed-chunk-25-1.png" width="50%" style="display: block; margin: auto;" /&gt;
+
+---
+
+```r
+ggplot(hi, aes(x = excited, fill = early)) +
+  geom_density(alpha = .6) +
+  scale_fill_manual(values = c("mediumseagreen", "dodgerblue"),
+                    name = "") +
+  theme_minimal() +
+  labs(x = "")
+```
+
+&lt;img src="cm011_files/figure-html/unnamed-chunk-26-1.png" width="60%" style="display: block; margin: auto;" /&gt;
+
 
 ---
 
@@ -664,7 +743,7 @@ ggplot(hi, aes(x = age_guess, y = excited)) +
   geom_point()
 ```
 
-&lt;img src="cm011_files/figure-html/unnamed-chunk-25-1.png" width="65%" style="display: block; margin: auto;" /&gt;
+&lt;img src="cm011_files/figure-html/unnamed-chunk-27-1.png" width="65%" style="display: block; margin: auto;" /&gt;
 
 ---
 
@@ -674,18 +753,18 @@ ggplot(hi, aes(x = age_guess, y = excited)) +
   geom_smooth(method = "lm")
 ```
 
-&lt;img src="cm011_files/figure-html/unnamed-chunk-26-1.png" width="65%" style="display: block; margin: auto;" /&gt;
+&lt;img src="cm011_files/figure-html/unnamed-chunk-28-1.png" width="65%" style="display: block; margin: auto;" /&gt;
 
 ---
 class:middle, inverse, center
 ## Discuss with your partner
 
 .pull-left[
-&lt;img src="cm011_files/figure-html/unnamed-chunk-27-1.png" width="65%" style="display: block; margin: auto;" /&gt;
+&lt;img src="cm011_files/figure-html/unnamed-chunk-29-1.png" width="65%" style="display: block; margin: auto;" /&gt;
 ]
 
 .pull-right[
-&lt;img src="cm011_files/figure-html/unnamed-chunk-28-1.png" width="65%" style="display: block; margin: auto;" /&gt;
+&lt;img src="cm011_files/figure-html/unnamed-chunk-30-1.png" width="65%" style="display: block; margin: auto;" /&gt;
 ]
 
 ## What's wrong on the right?

diff --git a/slides/css/ohsu-fonts.css b/slides/css/ohsu-fonts.css
@@ -12,7 +12,7 @@ Updated: 2018-03-22
 @import url(https://fonts.googleapis.com/css?family=Lato);
 @import url(https://fonts.googleapis.com/css?family=Inconsolata:400,700);
 @import url('https://fonts.googleapis.com/css?family=Lora');
-@import url(https://fonts.googleapis.com/css?family=Raleway:300);
+@import url(https://fonts.googleapis.com/css?family=Raleway:300,700);
 
 
 @font-face{

diff --git a/slides/css/ohsu.css b/slides/css/ohsu.css
@@ -108,6 +108,7 @@ thead, tfoot, tr:nth-child(even) { background: #eee }
 .inverse h2 {
   line-height: 1.1;
   font-family: 'Raleway';
+  font-weight: 700;
 }
 
 .inverse .remark-inline-code { 
